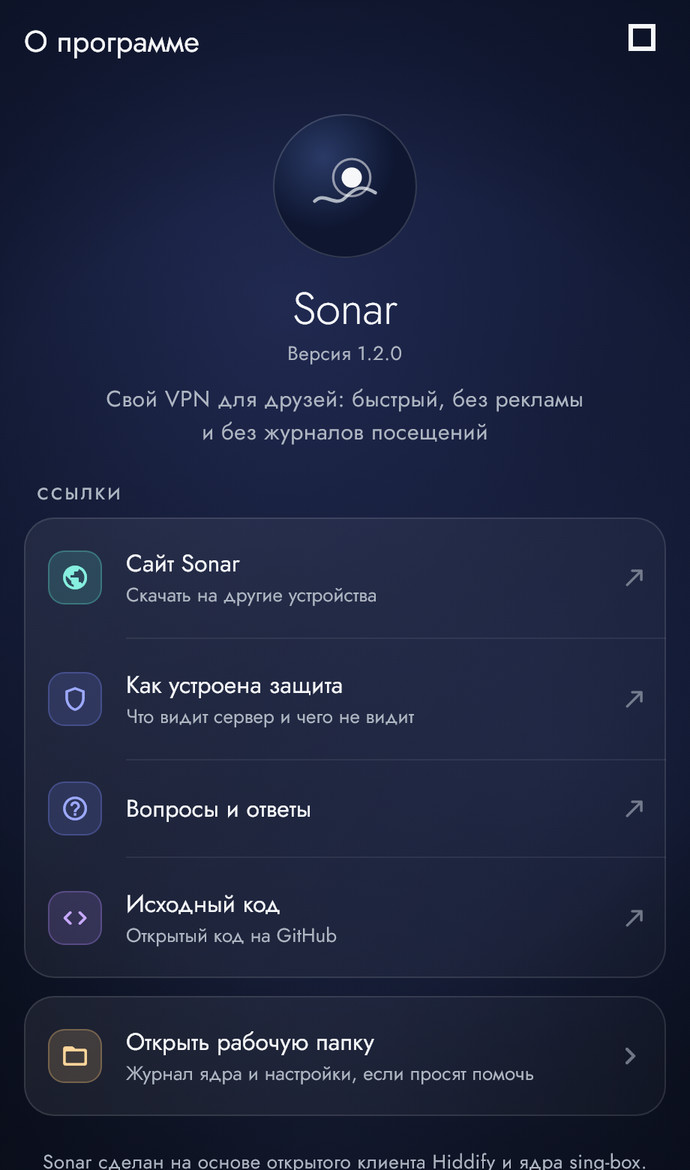
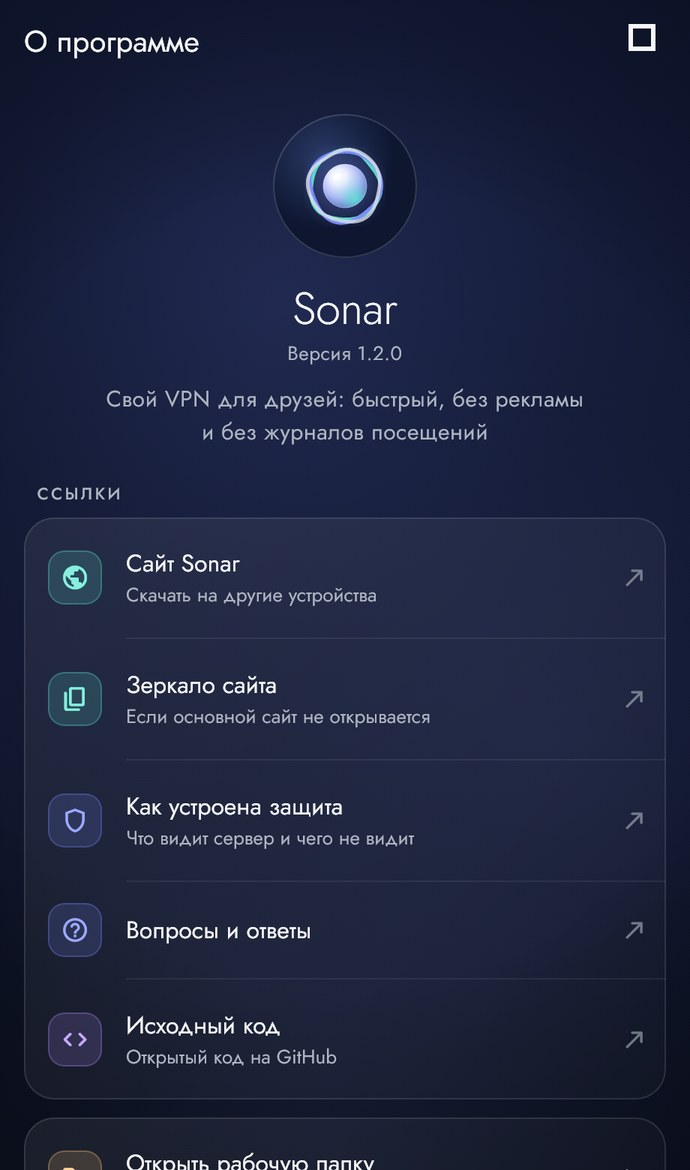
Знак крупнее в плашке настроек и «О программе», свежие скриншоты в README

diff --git a/scripts/sonar_icons.py b/scripts/sonar_icons.py
@@ -327,7 +327,8 @@ def banner(w=320, h=180):
 
 def main():
     print("SVG")
-    write("assets/images/logo.svg", svg_doc(svg_mark_body("M", "lg"), id_="lg"))
+    # в приложении знак стоит в круглой плашке 30 px: поля срезаны, кольца почти до края
+    write("assets/images/logo.svg", svg_doc(svg_mark_body("M", "lg"), vb="15 15 70 70", id_="lg"))
     write("assets/images/brand/sonar-mark.svg", svg_doc(svg_mark_body("L")))
     write("assets/images/brand/sonar-mark-small.svg", svg_doc(svg_mark_body("S")))
     write("assets/images/brand/sonar-mark-mono.svg", svg_doc(svg_mark_body("M", mono="currentColor")))
